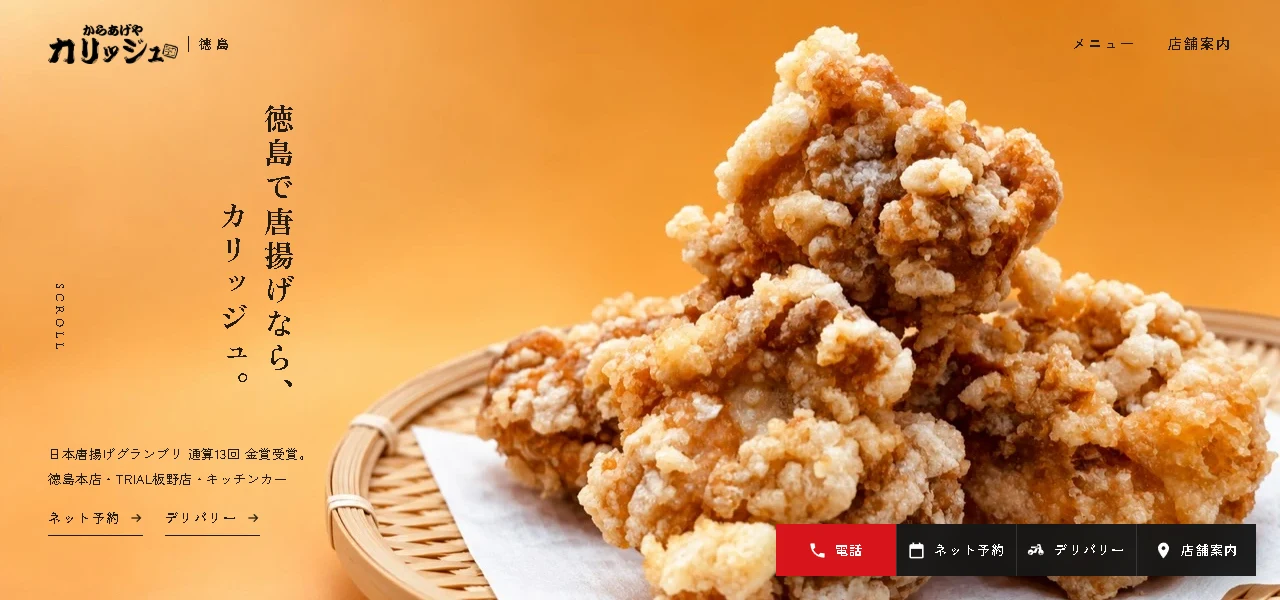
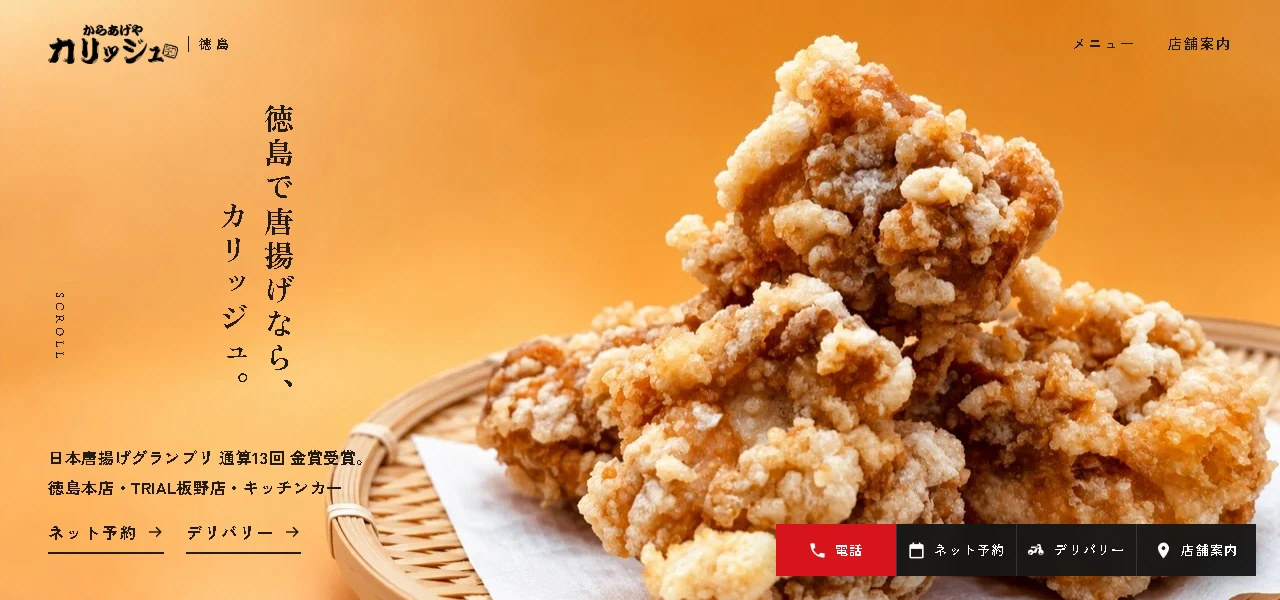
Enlarge and bold desktop hero details and reservation links

Changed region(s): [[0.0312, 0.03, 1.0, 1.0]]

diff --git a/hero-review-20261009/site/index.html b/hero-review-20261009/site/index.html
@@ -20,7 +20,7 @@
 <link rel="preconnect" href="https://fonts.googleapis.com">
 <link rel="preconnect" href="https://fonts.gstatic.com" crossorigin>
 <link rel="stylesheet" href="https://fonts.googleapis.com/css2?family=Cormorant+Garamond:ital,wght@0,500;0,600;0,700;1,500&amp;family=Zen+Kaku+Gothic+New:wght@400;500;700&amp;family=Zen+Old+Mincho:wght@500;700;900&amp;display=swap">
-<link rel="stylesheet" href="assets/css/site.css?v=6153ce01">
+<link rel="stylesheet" href="assets/css/site.css?v=87977d95">
 <script>document.documentElement.classList.add('js');if(/[?&]motion=force/.test(location.search)||(!matchMedia('(prefers-reduced-motion: reduce)').matches&&!/[?&]motion=reduce/.test(location.search)))document.documentElement.classList.add('motion');</script>
 <script type="application/ld+json">{"@context":"https://schema.org","@graph":[{"@type":"Restaurant","@id":"https://kariju-tokushima.com/shops.html#honten","name":"からあげやカリッジュ　徳島本店","url":"https://kariju-tokushima.com/shops.html#honten","image":"https://kariju-tokushima.com/assets/img/store-honten-20261002-full.jpg","telephone":"+81-80-4037-3163","address":{"@type":"PostalAddress","postalCode":"770-0005","addressRegion":"徳島県","addressLocality":"徳島市","streetAddress":"南矢三町3丁目4-39 久米ビル","addressCountry":"JP"},"openingHoursSpecification":[{"@type":"OpeningHoursSpecification","dayOfWeek":["Monday","Tuesday","Wednesday","Thursday","Friday"],"opens":"11:00:00","closes":"14:00:00"},{"@type":"OpeningHoursSpecification","dayOfWeek":["Monday","Tuesday","Wednesday","Thursday","Friday"],"opens":"16:00:00","closes":"20:00:00"},{"@type":"OpeningHoursSpecification","dayOfWeek":["Saturday","Sunday"],"opens":"11:00:00","closes":"20:00:00"}],"servesCuisine":"唐揚げ","priceRange":"¥500〜¥3,000","menu":"https://kariju-tokushima.com/menu.html","hasMap":"https://www.google.com/maps/search/?api=1&query=%E3%81%8B%E3%82%89%E3%81%82%E3%81%92%E3%82%84%E3%82%AB%E3%83%AA%E3%83%83%E3%82%B8%E3%83%A5%20%E5%BE%B3%E5%B3%B6%E6%9C%AC%E5%BA%97%20%E5%BE%B3%E5%B3%B6%E7%9C%8C%E5%BE%B3%E5%B3%B6%E5%B8%82%E5%8D%97%E7%9F%A2%E4%B8%89%E7%94%BA3%E4%B8%81%E7%9B%AE4-39%20%E4%B9%85%E7%B1%B3%E3%83%93%E3%83%AB","paymentAccepted":"現金, PayPay","acceptsReservations":true},{"@type":"Restaurant","@id":"https://kariju-tokushima.com/shops.html#itano","name":"からあげやカリッジュ　TRIAL板野店","url":"https://kariju-tokushima.com/shops.html#itano","image":"https://kariju-tokushima.com/assets/img/store-itano-20261002-full.jpg","telephone":"+81-80-5132-7509","address":{"@type":"PostalAddress","postalCode":"779-0102","addressRegion":"徳島県","addressLocality":"板野郡板野町","streetAddress":"川端島中須11-2","addressCountry":"JP"},"openingHoursSpecification":[{"@type":"OpeningHoursSpecification","dayOfWeek":["Monday","Tuesday","Wednesday","Thursday","Friday"],"opens":"11:00:00","closes":"14:00:00"},{"@type":"OpeningHoursSpecification","dayOfWeek":["Monday","Tuesday","Wednesday","Thursday","Friday"],"opens":"15:00:00","closes":"20:00:00"},{"@type":"OpeningHoursSpecification","dayOfWeek":["Saturday","Sunday"],"opens":"11:00:00","closes":"20:00:00"}],"servesCuisine":"唐揚げ","priceRange":"¥500〜¥3,000","menu":"https://kariju-tokushima.com/menu.html","hasMap":"https://www.google.com/maps/search/?api=1&query=%E3%81%8B%E3%82%89%E3%81%82%E3%81%92%E3%82%84%E3%82%AB%E3%83%AA%E3%83%83%E3%82%B8%E3%83%A5%20TRIAL%E6%9D%BF%E9%87%8E%E5%BA%97%20%E5%BE%B3%E5%B3%B6%E7%9C%8C%E6%9D%BF%E9%87%8E%E9%83%A1%E6%9D%BF%E9%87%8E%E7%94%BA%E5%B7%9D%E7%AB%AF%E5%B3%B6%E4%B8%AD%E9%A0%8811-2","paymentAccepted":"現金, PayPay","acceptsReservations":true}]}</script>
 </head>

diff --git a/hero-review-20261009/site/shops.html b/hero-review-20261009/site/shops.html
@@ -20,7 +20,7 @@
 <link rel="preconnect" href="https://fonts.googleapis.com">
 <link rel="preconnect" href="https://fonts.gstatic.com" crossorigin>
 <link rel="stylesheet" href="https://fonts.googleapis.com/css2?family=Cormorant+Garamond:ital,wght@0,500;0,600;0,700;1,500&amp;family=Zen+Kaku+Gothic+New:wght@400;500;700&amp;family=Zen+Old+Mincho:wght@500;700;900&amp;display=swap">
-<link rel="stylesheet" href="assets/css/site.css?v=6153ce01">
+<link rel="stylesheet" href="assets/css/site.css?v=87977d95">
 <script>document.documentElement.classList.add('js');if(/[?&]motion=force/.test(location.search)||(!matchMedia('(prefers-reduced-motion: reduce)').matches&&!/[?&]motion=reduce/.test(location.search)))document.documentElement.classList.add('motion');</script>
 <script type="application/ld+json">{"@context":"https://schema.org","@graph":[{"@type":"Restaurant","@id":"https://kariju-tokushima.com/shops.html#honten","name":"からあげやカリッジュ　徳島本店","url":"https://kariju-tokushima.com/shops.html#honten","image":"https://kariju-tokushima.com/assets/img/store-honten-20261002-full.jpg","telephone":"+81-80-4037-3163","address":{"@type":"PostalAddress","postalCode":"770-0005","addressRegion":"徳島県","addressLocality":"徳島市","streetAddress":"南矢三町3丁目4-39 久米ビル","addressCountry":"JP"},"openingHoursSpecification":[{"@type":"OpeningHoursSpecification","dayOfWeek":["Monday","Tuesday","Wednesday","Thursday","Friday"],"opens":"11:00:00","closes":"14:00:00"},{"@type":"OpeningHoursSpecification","dayOfWeek":["Monday","Tuesday","Wednesday","Thursday","Friday"],"opens":"16:00:00","closes":"20:00:00"},{"@type":"OpeningHoursSpecification","dayOfWeek":["Saturday","Sunday"],"opens":"11:00:00","closes":"20:00:00"}],"servesCuisine":"唐揚げ","priceRange":"¥500〜¥3,000","menu":"https://kariju-tokushima.com/menu.html","hasMap":"https://www.google.com/maps/search/?api=1&query=%E3%81%8B%E3%82%89%E3%81%82%E3%81%92%E3%82%84%E3%82%AB%E3%83%AA%E3%83%83%E3%82%B8%E3%83%A5%20%E5%BE%B3%E5%B3%B6%E6%9C%AC%E5%BA%97%20%E5%BE%B3%E5%B3%B6%E7%9C%8C%E5%BE%B3%E5%B3%B6%E5%B8%82%E5%8D%97%E7%9F%A2%E4%B8%89%E7%94%BA3%E4%B8%81%E7%9B%AE4-39%20%E4%B9%85%E7%B1%B3%E3%83%93%E3%83%AB","paymentAccepted":"現金, PayPay","acceptsReservations":true},{"@type":"Restaurant","@id":"https://kariju-tokushima.com/shops.html#itano","name":"からあげやカリッジュ　TRIAL板野店","url":"https://kariju-tokushima.com/shops.html#itano","image":"https://kariju-tokushima.com/assets/img/store-itano-20261002-full.jpg","telephone":"+81-80-5132-7509","address":{"@type":"PostalAddress","postalCode":"779-0102","addressRegion":"徳島県","addressLocality":"板野郡板野町","streetAddress":"川端島中須11-2","addressCountry":"JP"},"openingHoursSpecification":[{"@type":"OpeningHoursSpecification","dayOfWeek":["Monday","Tuesday","Wednesday","Thursday","Friday"],"opens":"11:00:00","closes":"14:00:00"},{"@type":"OpeningHoursSpecification","dayOfWeek":["Monday","Tuesday","Wednesday","Thursday","Friday"],"opens":"15:00:00","closes":"20:00:00"},{"@type":"OpeningHoursSpecification","dayOfWeek":["Saturday","Sunday"],"opens":"11:00:00","closes":"20:00:00"}],"servesCuisine":"唐揚げ","priceRange":"¥500〜¥3,000","menu":"https://kariju-tokushima.com/menu.html","hasMap":"https://www.google.com/maps/search/?api=1&query=%E3%81%8B%E3%82%89%E3%81%82%E3%81%92%E3%82%84%E3%82%AB%E3%83%AA%E3%83%83%E3%82%B8%E3%83%A5%20TRIAL%E6%9D%BF%E9%87%8E%E5%BA%97%20%E5%BE%B3%E5%B3%B6%E7%9C%8C%E6%9D%BF%E9%87%8E%E9%83%A1%E6%9D%BF%E9%87%8E%E7%94%BA%E5%B7%9D%E7%AB%AF%E5%B3%B6%E4%B8%AD%E9%A0%8811-2","paymentAccepted":"現金, PayPay","acceptsReservations":true}]}</script>
 </head>

diff --git a/hero-review-20261009/site/assets/css/site.css b/hero-review-20261009/site/assets/css/site.css
@@ -344,7 +344,9 @@ body[data-store="itano"] [data-only="honten"] { display: none !important; }
   .hero::after { background: none; }
   .catch { font-size: clamp(30px, min(4.2vw, calc((100svh - 290px) / 11.4)), 68px); text-shadow: none; }
   .hero__foot { padding-top: 30px; }
-  .hero__lead { font-size: 13px; letter-spacing: .04em; }
+  .hero__lead { font-size: 16px; font-weight: 700; letter-spacing: .04em; }
+  .hero__links a { font-size: 16px; font-weight: 700; border-bottom-width: 2px; }
+  .hero__links svg { width: 18px; height: 18px; }
   .hero__scroll { display: block; position: absolute; left: var(--gutter); top: 50%; translate: 0 -50%; writing-mode: vertical-rl; font-family: var(--serif-en); font-size: 12px; letter-spacing: .4em; color: currentColor; }
   .hero.is-lifted { color: #241a0e; }
   .hero.is-lifted .hero__links a { border-bottom-color: currentColor; }

diff --git a/hero-review-20261009/site/menu.html b/hero-review-20261009/site/menu.html
@@ -20,7 +20,7 @@
 <link rel="preconnect" href="https://fonts.googleapis.com">
 <link rel="preconnect" href="https://fonts.gstatic.com" crossorigin>
 <link rel="stylesheet" href="https://fonts.googleapis.com/css2?family=Cormorant+Garamond:ital,wght@0,500;0,600;0,700;1,500&amp;family=Zen+Kaku+Gothic+New:wght@400;500;700&amp;family=Zen+Old+Mincho:wght@500;700;900&amp;display=swap">
-<link rel="stylesheet" href="assets/css/site.css?v=6153ce01">
+<link rel="stylesheet" href="assets/css/site.css?v=87977d95">
 <script>document.documentElement.classList.add('js');if(/[?&]motion=force/.test(location.search)||(!matchMedia('(prefers-reduced-motion: reduce)').matches&&!/[?&]motion=reduce/.test(location.search)))document.documentElement.classList.add('motion');</script>
 
 </head>
